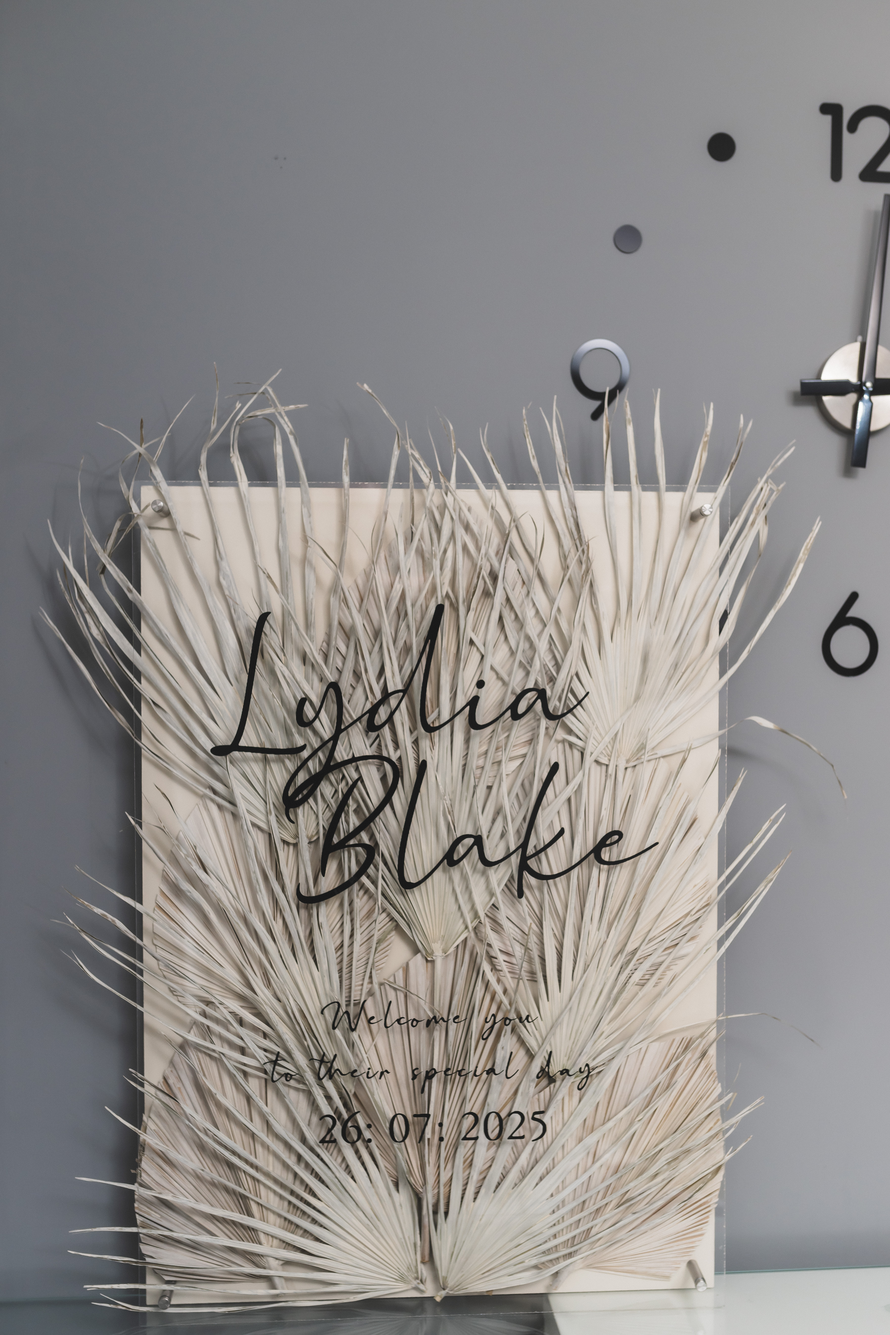
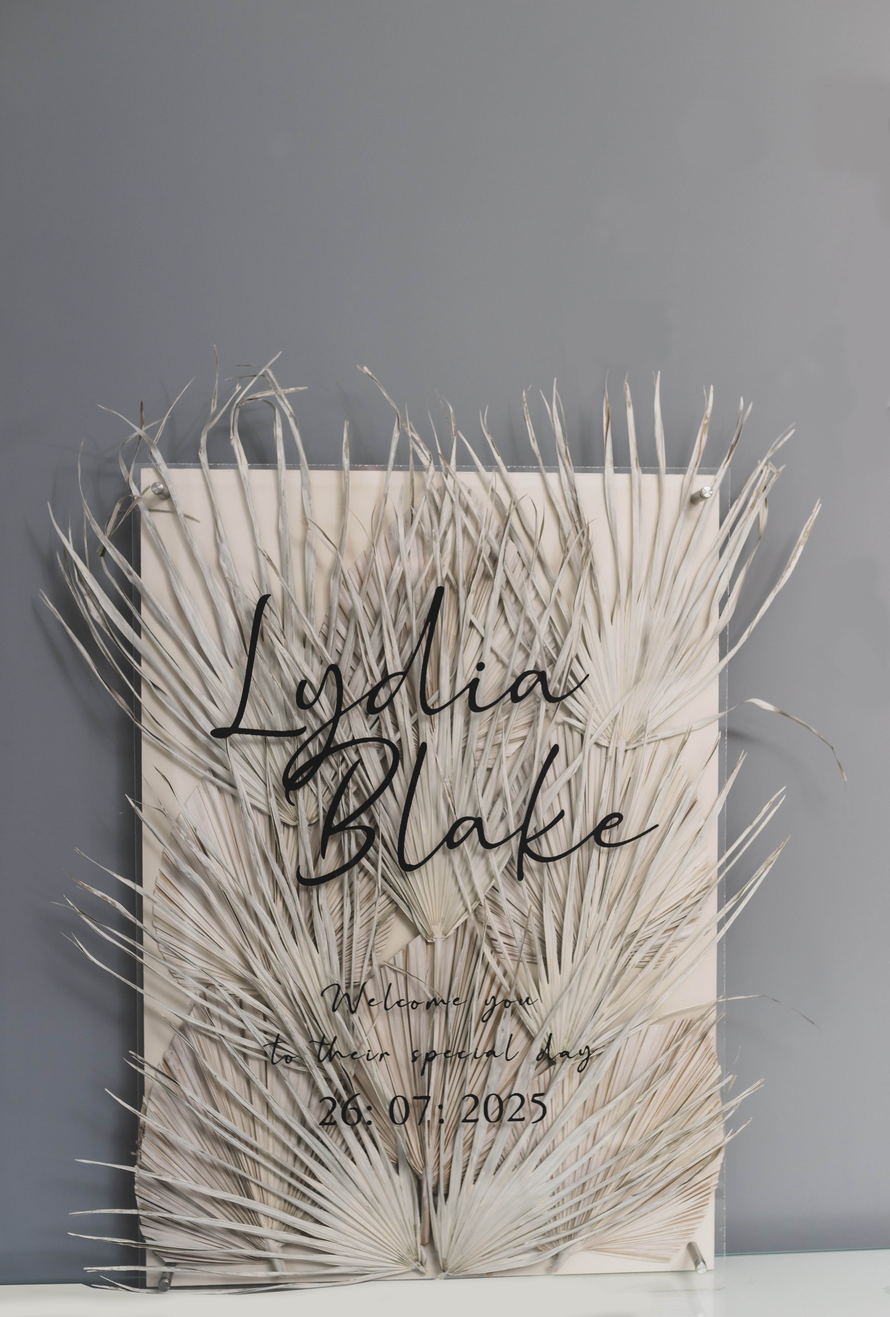
fix double image formatting

diff --git a/src/componants/FrontPage.tsx b/src/componants/FrontPage.tsx
@@ -30,8 +30,10 @@ const FrontPage = () => {
                     </div>
                 </div>
                 <div className="row p-0">
-                    <div className="col p-0 double-image">
-                        <img src=".\images\front-page\045_board_clock_2_cropped.jpg" className="img-fluid" alt="left-3" />
+                    <div className="col p-0 double-image-container">
+                        <div className="double-image">
+                            <img src=".\images\front-page\045_board_clock.jpg" className="img-fluid" alt="left-3" />
+                        </div>
                     </div>
                     <div className="col">
                         <div className="row p-0">
@@ -62,6 +64,9 @@ const FrontPage = () => {
                     z-index: -1;
                 }
                 .double-image {
+                    padding: 0px 5px 5px 0px;
+                }
+                .double-image-container{
                     display: flex;
                     justify-content: center;
                     align-items: center;
@@ -79,7 +84,7 @@ const FrontPage = () => {
                     padding: 5px 10px 5px 5px;
                 }
                 .padded-right-3 {
-                    padding: 0px 0px 10px 15px;
+                    padding: 0px 0px 10px 5px;
                 }
             `}
             </style>
